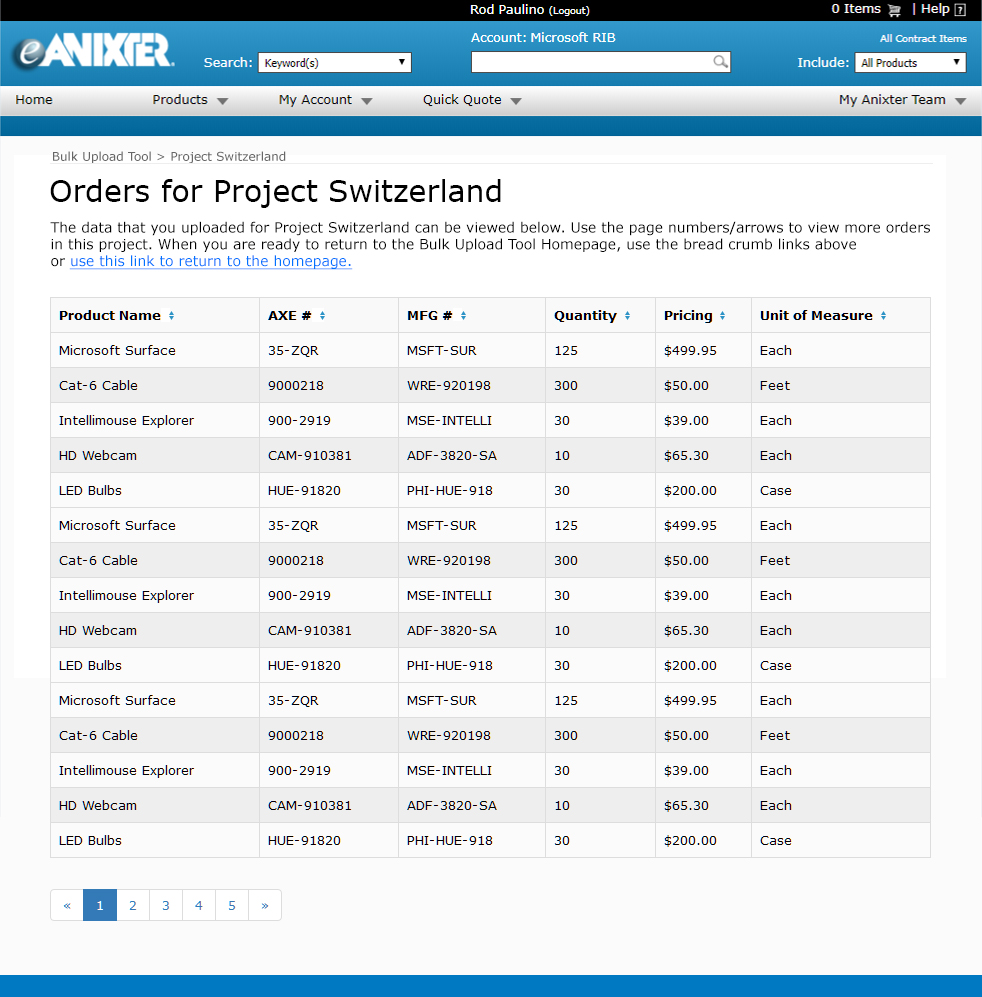
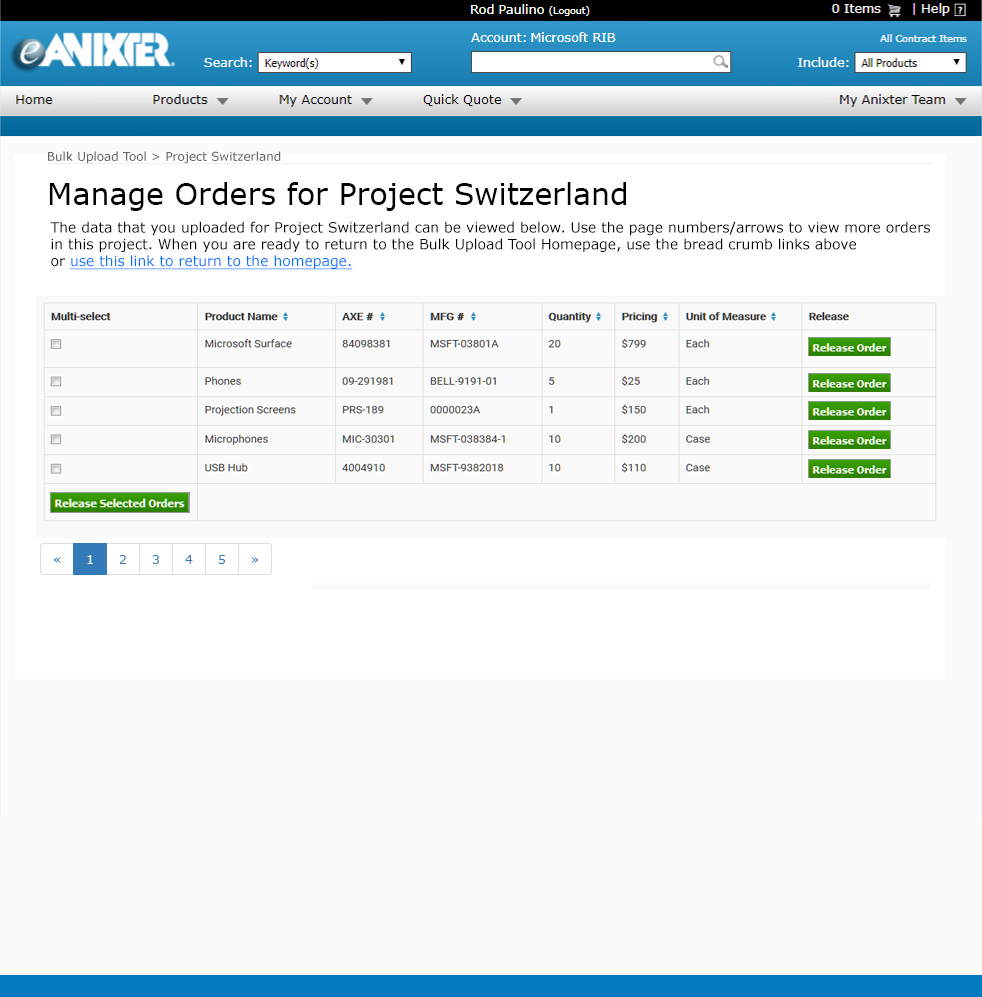
New mockups
Revised mockups for project

Changed region(s): [[0.0305, 0.3109, 0.5193, 0.9328], [0.5499, 0.3109, 0.9165, 0.8706], [0.0305, 0.1555, 0.6415, 0.2177]]

diff --git a/msft/index.html b/msft/index.html
@@ -58,7 +58,7 @@
         </div>
 
         <div class="col-md-3">
-          <a rel="gallery" class="btn btn-primary fancybox" href="images/upload-screen.jpg"><img src="images/mockup-icon.png" width="150" /><br />Bulk Upload Tool Homepage</a>
+          <a rel="gallery" class="btn btn-primary fancybox" href="images/upload-screen-v2.jpg"><img src="images/mockup-icon.png" width="150" /><br />Bulk Upload Tool Homepage</a>
         </div>
 
          <div class="col-md-3">
@@ -71,12 +71,6 @@
       </div>
 
       <br />
-
-      <div class="row">
-        <div class="col-md-3">
-          <a rel="gallery" class="btn btn-primary fancybox" href="images/release-order-modal.jpg"><img src="images/mockup-icon.png" width="150" /><br />Release Order Confirmation Modal</a>
-        </div>
-      </div>
 
 
     </div><!-- /.container -->
